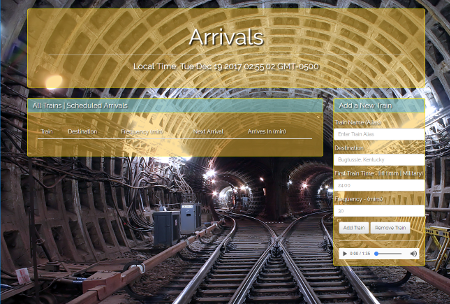
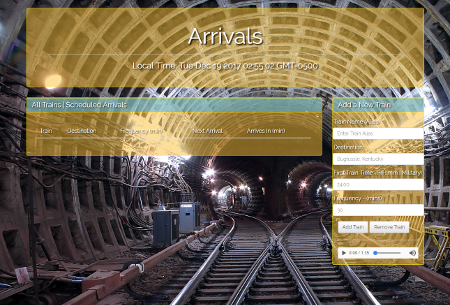
update screenshot

diff --git a/index.html b/index.html
@@ -57,7 +57,7 @@
     <div class="jumbotron text-center">
 
 
-      <h1>Arrivals</h1>
+      <h1>Anfünfte | Llegadas | Arrivées | Arrivals</h1>
       <hr>
       <!-- Display local time -->
       <h2>Local Time:
@@ -71,13 +71,13 @@
       <div class="col-sm-9">
         <!-- Panel-Primary needed to get white text in Bootstrap -->
         <div class="panel panel-primary">
-          <div class="panel-heading">All Trains | Scheduled Arrivals</div>
+          <div class="panel-heading">All Train | Tren | Zug || Scheduled Arrivals</div>
           <div class="panel-body">
             <div class="panel-body">
               <table class="table table-hover table-responsive" id="timeTable">
                 <thead>
                   <tr>
-                    <th>Train</th>
+                    <th>Train | Tren | Zug</th>
                     <th>Destination</th>
                     <th>Frequency (min)</th>
                     <th>Next Arrival</th>
@@ -107,24 +107,24 @@
             <form role="form" class='form-horizontal'>
 
               <div class="form-group">
-                <label for="train">Train Name (Alias)</label>
-                <input type="text" class="form-control" id="enterTrain" placeholder="Train Alias">
+                <label for="train">Train | Tren | Zug (Alias)</label>
+                <input type="text" class="form-control" id="enterTrain" placeholder="Train | Tren | Zug Alias">
               </div>
 
               <div class="form-group">
                 <label for="dest">Destination </label>
-                <input type="text" class="form-control" id="enterDest" placeholder="Bugtussle, Kentucky">
+                <input type="text" class="form-control" id="enterDest" placeholder="Zzyzx, California,">
               </div>
 
               <div class="form-group">
                 <label class="nextTrain" for="nextTrain">First Train Time</label>
                 <label class="armyTime">&nbsp;(HH:mm | Military)</label>
-                <input type="" class="form-control" id="enterTime" placeholder="24:00">
+                <input type="" class="form-control" id="enterTime" placeholder="24:59">
               </div>
 
               <div class="form-group">
                 <label for="minutesAway">Frequency - (mins) </label>
-                <input type="text" class="form-control" id="enterFrequency" placeholder="30">
+                <input type="text" class="form-control" id="enterFrequency" placeholder="120">
               </div>
 
               <button type="submit" class="btn btn-default" id="submit">Add Train</button>

diff --git a/assets/css/style.css b/assets/css/style.css
@@ -29,11 +29,14 @@ body {
     margin-bottom: 5px;          
 }
 
-
 .sidebar {
     color: #ffffff;
     background: rgba(251, 192, 54, 0.5);
     border: 1px solid rgb(255, 238, 1);  
+}
+
+h1 {
+    
 }
 
 h2 {
